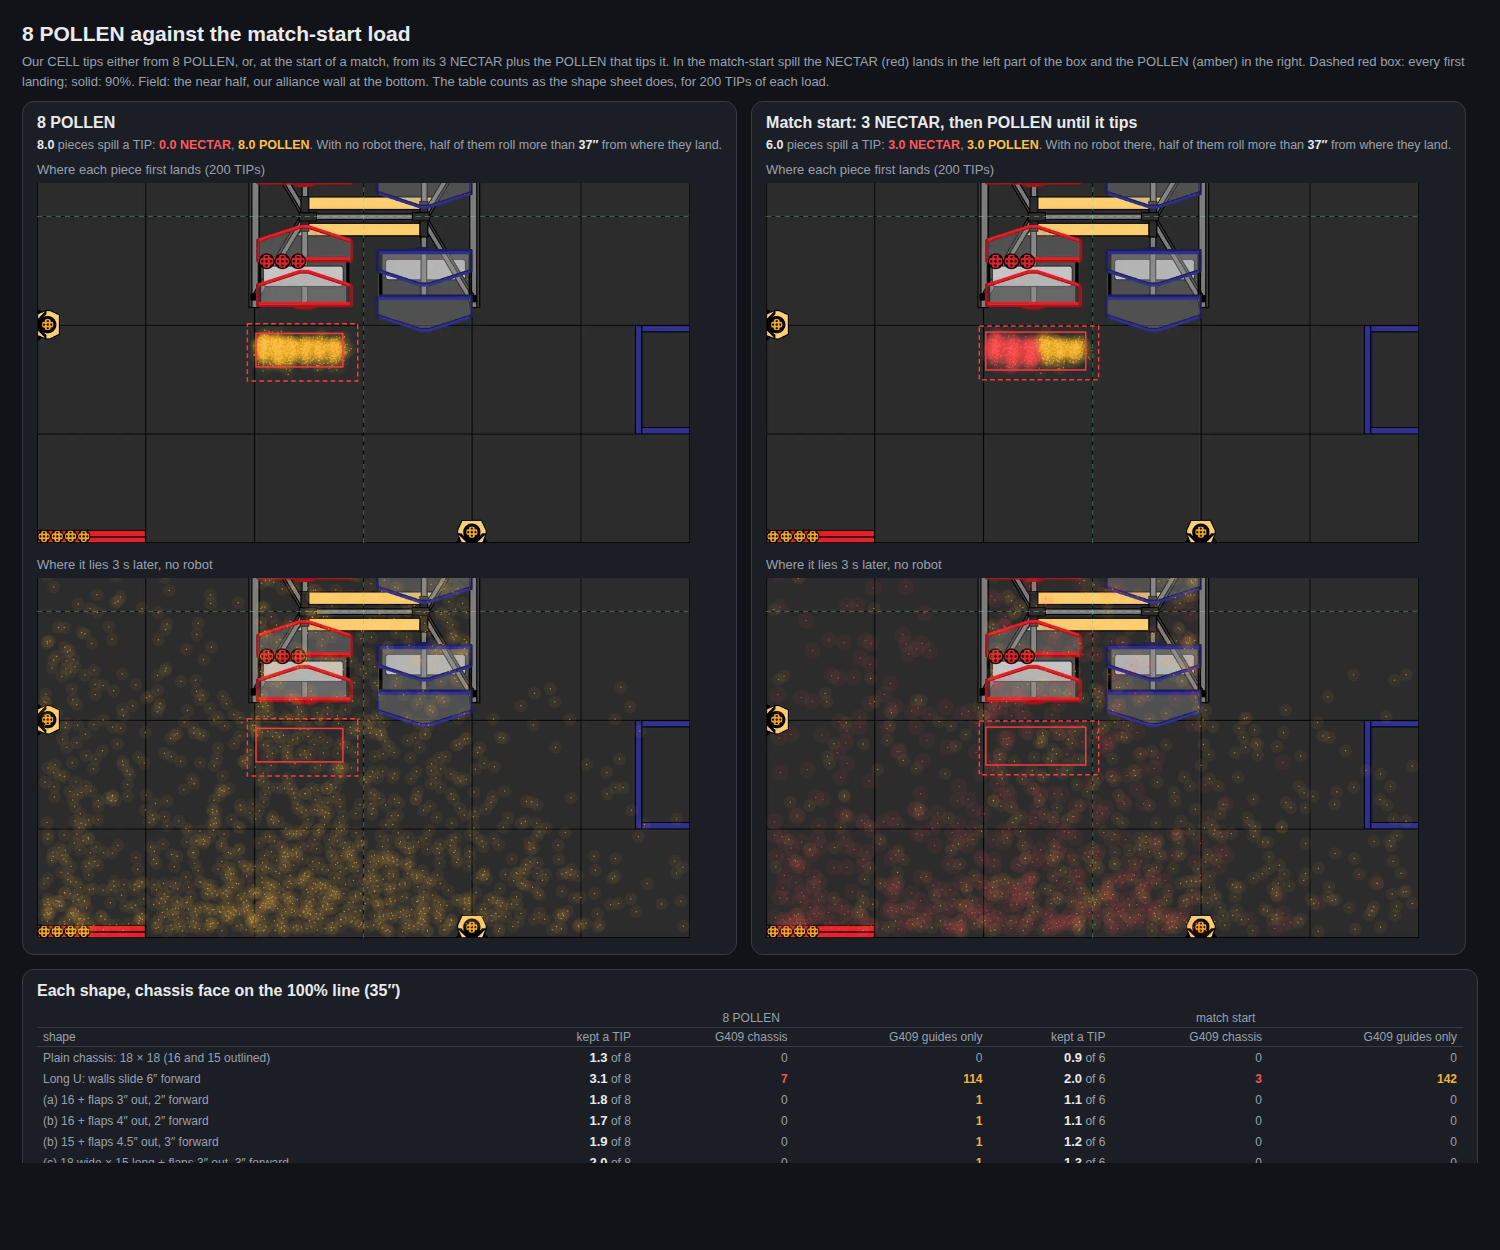
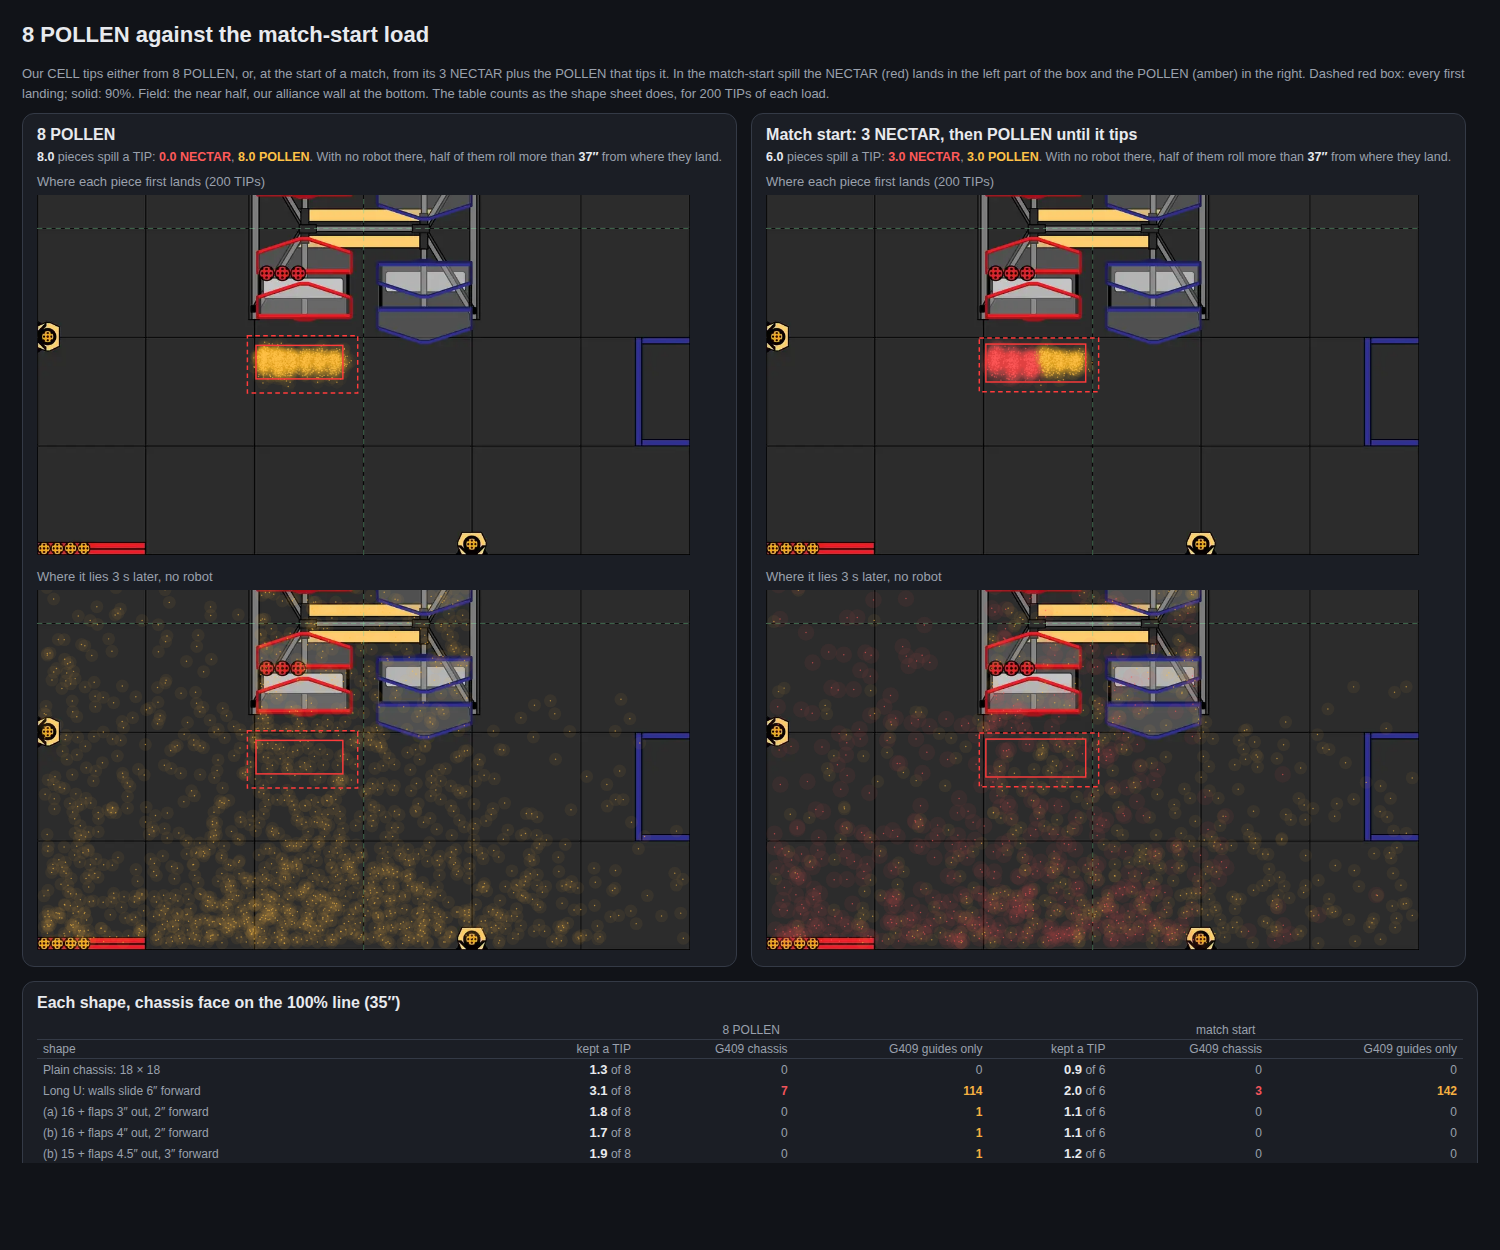
Shape sheet: just the pictures, each robot at the spill
Mentor review: no prose, legend, tables or smaller-chassis outlines on the
shape sheet, and no kept patch on the field views. Every robot parks
centred on the 90% box with its chassis face halfway between the 100%
and 90% lines (shapes.py reads both from the spill CSV; draw.py --x
centres the robot). The grey start box is gone from the top views.

Refs #156

Claude-Session: https://claude.ai/code/session_017LjAKqBT9wAN9mza2EWhc5

diff --git a/tools/spill-window/shapes.py b/tools/spill-window/shapes.py
@@ -1,19 +1,19 @@
 """Two dark sheets for the spill-study shapes, from the simulator's numbers:
 
-  sim-review/body-shapes.png        each shape from above with its sizes, parked with its chassis's front face on
-                                    the 8 POLLEN spill's 100% line, and a table of what happens at three spots
+  sim-review/body-shapes.png        each shape from above with its sizes, and on the field over where an 8 POLLEN
+                                    spill lands: centred on the 90% box, chassis face halfway between its 100% and
+                                    90% lines
   sim-review/body-shapes-loads.png  8 POLLEN against the match-start load: where the spill lands, where it lies
                                     3 s later, and what each shape keeps from each
 
     ./gradlew :TeamCode:testDebugUnitTest --tests '*SpillLandingTest*' --tests '*BodyShapeSpillTest.atTheLandingLine'
     python3 tools/spill-window/shapes.py
-    chromium --headless --hide-scrollbars --window-size=1880,1560 --screenshot=sim-review/body-shapes.png TeamCode/build/sim-logs/body-shapes.html
+    chromium --headless --hide-scrollbars --window-size=1880,1272 --screenshot=sim-review/body-shapes.png TeamCode/build/sim-logs/body-shapes.html
     chromium --headless --hide-scrollbars --window-size=1500,1250 --screenshot=sim-review/body-shapes-loads.png TeamCode/build/sim-logs/body-shapes-loads.html
 
 The HTML (about 2 MB each, every spilled piece drawn) stays in the build folder. The top views are the Visualizer's
 2D style, front up, with the chassis (white), how far flaps or walls stick out (blue) and the whole robot with
-everything out (amber) along the edges; the dashed boxes are the 18 x 18 in start size (R102) and the 18 x 24 in
-limit after the start (R105). The field views are draw.py's.
+everything out (amber) along the edges; the amber dashed box is the 18 x 24 in limit after the start (R105). The field views are draw.py's.
 """
 import csv as csvlib
 import os
@@ -31,7 +31,7 @@ RESULTS = os.path.join(LOGS, "body-shapes-landing.csv")
 # Card title, BodyShape name (the results' key), width, length, wall slide, flap out, flap forward, low guide,
 # smaller chassis to outline.
 SHAPES = [
-    ("Plain chassis: 18 × 18 (16 and 15 outlined)", "plain 18", 18, 18, 0, 0, 0, False, (16, 15)),
+    ("Plain chassis: 18 × 18", "plain 18", 18, 18, 0, 0, 0, False, ()),
     ("Long U: walls slide 6″ forward", "long U", 18, 18, 6, 0, 0, False, ()),
     ("(a) 16 + flaps 3″ out, 2″ forward", "16 + flaps 3 out 2 fwd", 16, 16, 0, 3, 2, False, ()),
     ("(b) 16 + flaps 4″ out, 2″ forward", "16 + flaps 4 out 2 fwd", 16, 16, 0, 4, 2, False, ()),
@@ -85,12 +85,10 @@ def top_view(w, l, slide, out, fwd, low, outlines=()):
     half = max(w / 2, w / 2 + out) * S          # widest half, px
     o = [f'<svg width="{size:.0f}" height="{size:.0f}" viewBox="0 0 {size:.0f} {size:.0f}" xmlns="http://www.w3.org/2000/svg" font-family="Helvetica,Arial,sans-serif">',
          f'<rect width="100%" height="100%" fill="{PANEL}"/>']
-    # R105, everything out: the 18 x 24 box around the footprint, the way round it fits; R102: the 18 in start box.
+    # R105, everything out: the 18 x 24 box around the footprint, the way round it fits.
     bw, bl = (24, 18) if across > 18 else (18, 24)
     o.append(f'<rect x="{cx - bw / 2 * S:.1f}" y="{back - bl * S:.1f}" width="{bw * S:.1f}" height="{bl * S:.1f}" fill="{AMBER}" fill-opacity="0.06" '
              f'stroke="{AMBER}" stroke-width="1.6" stroke-dasharray="8 6"/>')
-    o.append(f'<rect x="{cx - 9 * S:.1f}" y="{back - 18 * S:.1f}" width="{18 * S:.1f}" height="{18 * S:.1f}" fill="none" '
-             f'stroke="{GREY}" stroke-width="1.6" stroke-dasharray="4 5"/>')
     # The frame and its four mecanum wheels.
     x0 = cx - w / 2 * S
     o.append(f'<rect x="{x0:.1f}" y="{front:.1f}" width="{w * S:.1f}" height="{l * S:.1f}" rx="3" fill="{CHASSIS}" stroke="{CHASSIS_EDGE}" stroke-width="2.5"/>')
@@ -173,22 +171,26 @@ FIELD_IMAGE = None
 
 
 
-def table(key, nectar):
-    """What happens with the chassis's face at each spot: kept a TIP, G409 TIPs (chassis / guides only), over 4 inside."""
-    rows = []
-    for face, where in FACES:
-        kept_pct, kept, pieces, g409, chassis, guides, most, over = results[(key, face, nectar)]
-        c_cls = "bad" if chassis else "ok"
-        g_cls = "warn" if guides else "ok"
-        rows.append(f'<tr><td class="where"><b>{face:g}″</b> {where}</td><td><b>{kept:.1f}</b> of {pieces:.0f}</td>'
-                    f'<td class="{c_cls}">{chassis:.0f}</td><td class="{g_cls}">{guides:.0f}</td><td>{over:.0f}</td></tr>')
-    return ('<table><tr><th>chassis face from the wall</th><th>kept a TIP</th><th>G409 chassis</th><th>G409 guides only</th>'
-            f'<th>over 4 inside</th></tr>{"".join(rows)}</table>')
+def landing_lines(path):
+    """The spill's near edges (all footprints, 90% of them) and the 90% box's centre across, as draw.py draws them."""
+    rows = [list(map(float, l.split(","))) for l in open(path) if l.strip() and not l.startswith("#")]
+    q = lambda v, p: sorted(v)[min(len(v) - 1, int(p * len(v)))]
+    rad = max(r[7] for r in rows)
+    ys, xs = [r[5] for r in rows], [r[6] for r in rows]
+    line_100 = min(r[5] - r[7] for r in rows)
+    line_90 = q(ys, .05) - rad
+    return line_100, line_90, (q(xs, .05) + q(xs, .95)) / 2
+
+
+# Every robot parks the same way (mentor, 5 Oct 2026): centred across on the 90% box, chassis face halfway between
+# the 100% and 90% lines, its walls or flaps reaching into the spill.
+LINE_100, LINE_90, BOX_X = landing_lines(CSV)
+PARK_FACE = (LINE_100 + LINE_90) / 2
 
 
 STYLE = f"""<style>
 body{{margin:0;padding:22px;background:{BG};font-family:Helvetica,Arial,sans-serif;color:{TEXT}}}
-h1{{font-size:21px;margin:0 0 6px}} p.sub{{margin:0 0 10px;color:{MUTED};font-size:13px;max-width:1560px;line-height:1.5}}
+h1{{font-size:22px;margin:0 0 16px}} p.sub{{margin:0 0 10px;color:{MUTED};font-size:13px;max-width:1560px;line-height:1.5}}
 p.sub b{{color:{TEXT}}}
 .legend{{display:flex;flex-wrap:wrap;gap:18px;font-size:12.5px;color:{MUTED};margin:0 0 16px}}
 .legend i{{display:inline-block;width:22px;height:0;vertical-align:middle;margin-right:6px}}
@@ -210,23 +212,11 @@ td.bad{{color:{RED};font-weight:700}} td.warn{{color:{AMBER};font-weight:700}} t
 cards = []
 for title, key, w, l, slide, out, fwd, low, outlines in SHAPES:
     svg, _ = top_view(w, l, slide, out, fwd, low, outlines)
-    extra = ["--patch"]
-    cards.append(f'<div class="card"><h2>{title}</h2><div class="pics">{svg}{field_view(w, l, slide, out, fwd, FACES[0][0], extra=extra)}</div>'
-                 f'{table(key, 0)}</div>')
+    field = field_view(w, l, slide, out, fwd, round(PARK_FACE, 1), extra=["--x", f"{BOX_X:.1f}"])
+    cards.append(f'<div class="card"><h2>{title}</h2><div class="pics">{svg}{field}</div></div>')
 
 page = f"""<!doctype html><html><head><meta charset="utf-8"><meta name="color-scheme" content="dark"><title>Robot shapes at the spill</title>{STYLE}</head><body>
-<h1>Robot shapes at the spill: chassis face on the landing line, guides reaching in</h1>
-<p class="sub">An 8 POLLEN TIP of our CELL, 200 times per spot. Left: the robot from above, front up, inches. Right: on the field with its
-<b>chassis's front face on the spill's 100% line</b> (the dashed red box: every piece lands beyond it; the solid box holds 90%), so its walls or
-flaps reach into where pieces land. Table: the same robot with its face at 35″, 36.5″ and 38″ from the wall. <b>Kept</b>: pieces lying in the
-white dotted patch 3 s later (15″ behind the face to 8″ ahead, 24″ wide: the same floor for every shape), of the pieces spilled.
-<b>G409</b>: TIPs of 200 where a falling piece touched the robot before the tiles, split into <b style="color:{RED}">the chassis</b> (a foul)
-and <b style="color:{AMBER}">the walls, flaps or ramps only</b> (maybe not called on a thin passive guide). <b>Over 4 inside</b>: TIPs with
-more than 4 pieces between the guides at once (G407).</p>
-<div class="legend"><span><i style="border-top:2px dashed {GREY}"></i>18 × 18 start box (R102)</span>
-<span><i style="border-top:2px dashed {AMBER}"></i>18 × 24 limit after the start (R105), and the size fully out</span>
-<span><i style="border-top:2px solid {DIM}"></i>chassis</span><span><i style="border-top:3px solid {BLUE}"></i>flaps / walls, and how far they stick out</span>
-<span><i style="border-top:3px dashed {BLUE}"></i>low guide (2.5″)</span></div>
+<h1>Robot shapes at the spill</h1>
 <svg width="0" height="0" style="position:absolute"><defs>{{FIELD}}</defs></svg>
 <div class="grid">{"".join(cards)}</div></body></html>"""
 open(os.path.join(LOGS, "body-shapes.html"), "w").write(page.replace("{FIELD}", FIELD_IMAGE))

diff --git a/tools/spill-window/draw.py b/tools/spill-window/draw.py
@@ -4,7 +4,7 @@
     ./gradlew :TeamCode:testDebugUnitTest --tests '*SpillLandingTest*'   # writes build/sim-logs/spill-first-touch.csv
     python3 tools/spill-window/draw.py [--face 35] [--arms 6] [--body 16 16] [--flaps 3 2] [--patch] [csv] [out.html]
 
---body W L is the frame's width and length (default 18 18); --flaps OUT FWD draws a flap from each front
+--x X centres the robot at x = X (default 58, the red CELL's axis); --body W L is the frame's width and length (default 18 18); --flaps OUT FWD draws a flap from each front
 corner to a free end OUT in sideways and FWD in forward (BodyShapeSpillTest); --patch outlines the floor
 counted as "kept" (15 in behind the chassis's front face to 8 in past it, 24 in wide). --kinds draws NECTAR red
 and POLLEN amber; --rest draws where each piece lies 3 s after the TIP instead of where it first landed (the
@@ -48,6 +48,11 @@ if "--flaps" in ARGS:
     i = ARGS.index("--flaps")
     FLAP_OUT, FLAP_FWD = float(ARGS[i + 1]), float(ARGS[i + 2])
     del ARGS[i:i + 3]
+ROBOT_X = 58.0  # the robot's centre across the field: FieldSim.RED_HIVE_X_IN, the red CELL's axis, unless --x
+if "--x" in ARGS:
+    i = ARGS.index("--x")
+    ROBOT_X = float(ARGS[i + 1])
+    del ARGS[i:i + 2]
 FLAGS = {f: f in ARGS for f in ("--patch", "--kinds", "--rest", "--no-robot")}
 for f, on in FLAGS.items():
     if on:
@@ -64,9 +69,9 @@ if FIELD_IMAGE is None:
 FIELD = 141.5          # FieldFrame.FIELD_SIZE_INCHES, wall face to wall face
 CENTRE = FIELD / 2     # FieldFrame.FIELD_CENTRE_INCHES
 TILE = FIELD / 6
-# Our robot: its frame (18 in square unless --body), on the red CELL's axis (FieldSim.RED_HIVE_X_IN),
+# Our robot: its frame (18 in square unless --body), at x = ROBOT_X,
 # facing the HIVE with its front face FACE in from the audience wall.
-ROBOT_X, HALF, HALF_W = CENTRE - 12.75, BODY_L / 2, BODY_W / 2
+HALF, HALF_W = BODY_L / 2, BODY_W / 2
 ROBOT_Y = FACE - HALF
 
 rows = [list(map(float, l.split(","))) for l in open(CSV) if l.strip() and not l.startswith("#")]
